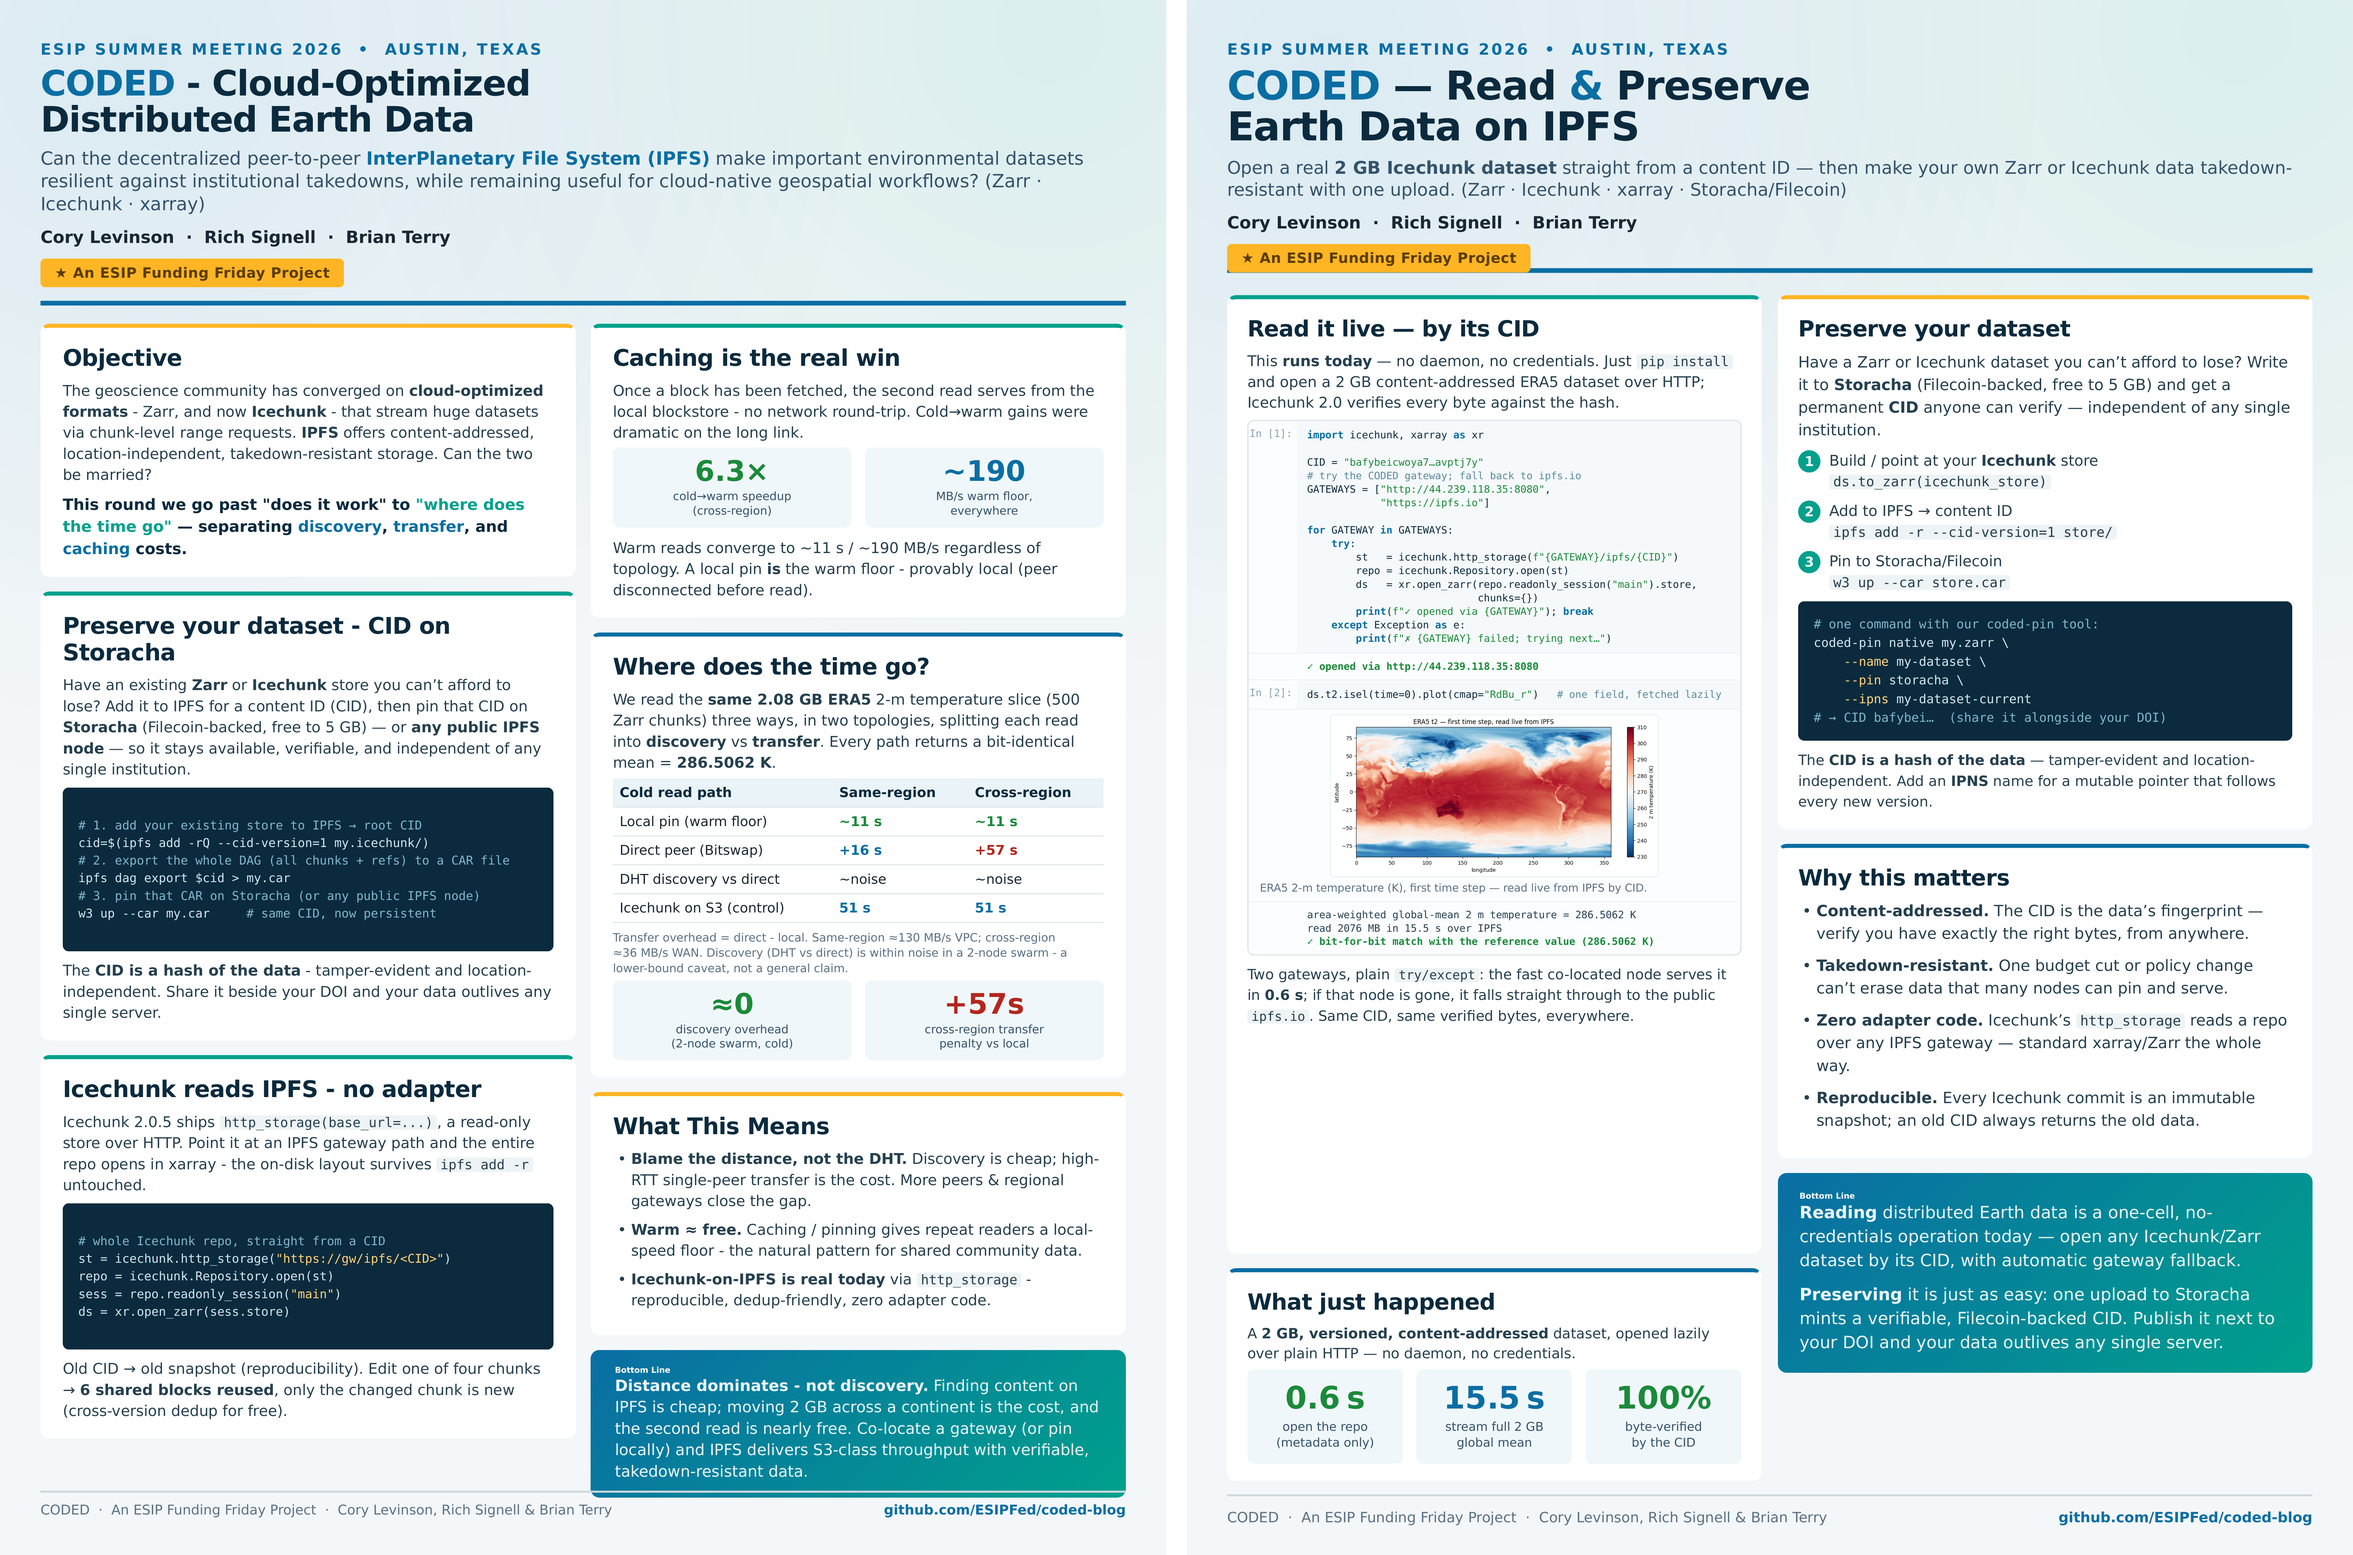
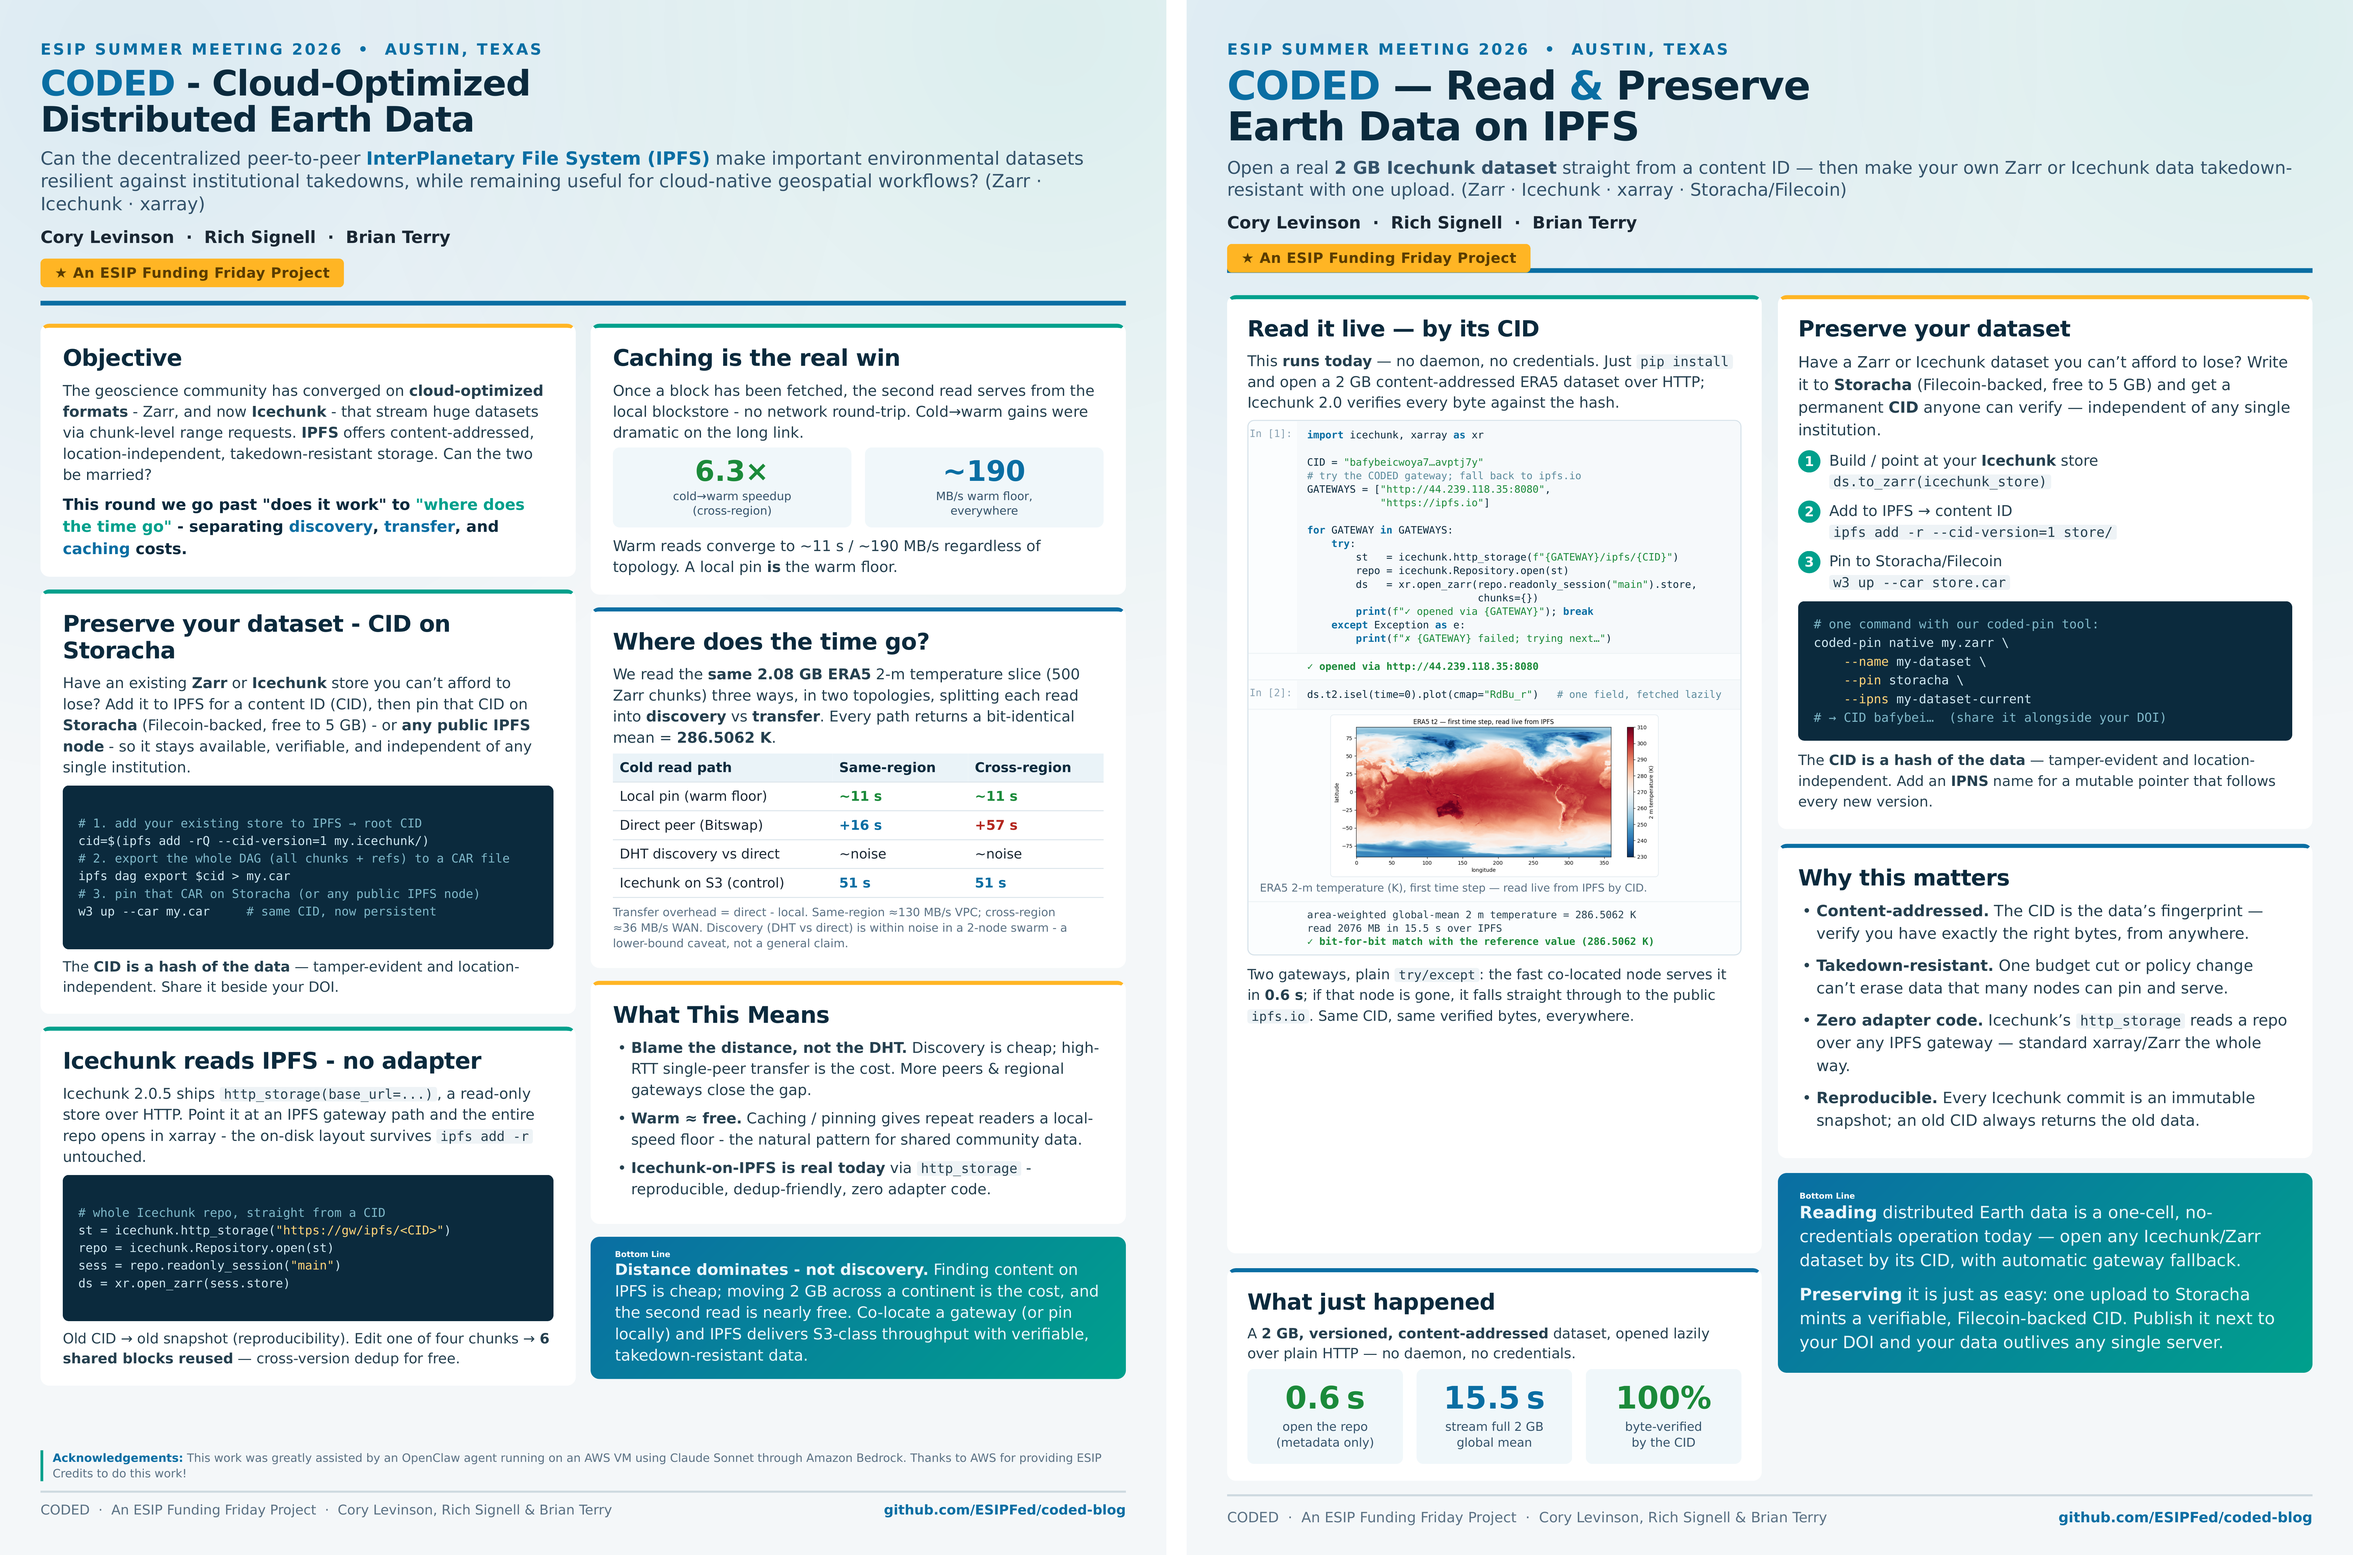
Poster v2: add Acknowledgements (OpenClaw agent, Claude Sonnet via Bedrock, AWS ESIP Credits)

diff --git a/ipfs-agent/posters/esip_ipfs_poster_v2.html b/ipfs-agent/posters/esip_ipfs_poster_v2.html
@@ -57,7 +57,7 @@
     grid-gap: 44px;
     margin-top: 10px;
   }
-  .col { display: flex; flex-direction: column; gap: 44px; }
+  .col { display: flex; flex-direction: column; gap: 38px; }
 
   .card {
     background: #ffffff; border-radius: 26px;
@@ -112,7 +112,7 @@
 
   .takeaway {
     background: linear-gradient(135deg, #0a6ea3, #00a08c);
-    color: #fff; border-radius: 26px; padding: 46px 72px; margin-bottom: 12px;
+    color: #fff; border-radius: 26px; padding: 38px 72px; margin-bottom: 8px;
     box-shadow: 0 14px 40px rgba(11,42,61,0.18); border-top: none;
   }
   .takeaway h2 { color: #fff; }
@@ -129,6 +129,11 @@
   .codebox .kw { color: #ffd479; }
 
   /* ---------- FOOTER ---------- */
+  .ack {
+    margin-top: 24px; font-size: 34px; line-height: 1.35; color: #5a7184;
+    font-style: italic; border-left: 8px solid #00a08c; padding-left: 28px;
+  }
+  .ack b { color: #0a6ea3; font-style: normal; }
   footer {
     margin-top: 28px; border-top: 6px solid #cdd9e0;
     padding-top: 28px; display: flex; justify-content: space-between;
@@ -156,12 +161,12 @@
       <div class="card amber">
         <h2>Objective</h2>
         <p class="lead">The geoscience community has converged on <b>cloud-optimized formats</b> - Zarr, and now <b>Icechunk</b> - that stream huge datasets via chunk-level range requests. <b>IPFS</b> offers content-addressed, location-independent, takedown-resistant storage. Can the two be married?</p>
-        <p style="font-weight:800; color:#0b2a3d; font-size:46px;">This round we go past "does it work" to <span style="color:#00a08c;">"where does the time go"</span> — separating <span style="color:#0a6ea3;">discovery</span>, <span style="color:#0a6ea3;">transfer</span>, and <span style="color:#0a6ea3;">caching</span> costs.</p>
+        <p style="font-weight:800; color:#0b2a3d; font-size:46px;">This round we go past "does it work" to <span style="color:#00a08c;">"where does the time go"</span> - separating <span style="color:#0a6ea3;">discovery</span>, <span style="color:#0a6ea3;">transfer</span>, and <span style="color:#0a6ea3;">caching</span> costs.</p>
       </div>
 
       <div class="card teal">
         <h2>Preserve <i>your</i> dataset - CID on Storacha</h2>
-        <p class="lead">Have an existing <b>Zarr</b> or <b>Icechunk</b> store you can&rsquo;t afford to lose? Add it to IPFS for a content ID (CID), then pin that CID on <b>Storacha</b> (Filecoin-backed, free to 5&nbsp;GB) — or <b>any public IPFS node</b> — so it stays available, verifiable, and independent of any single institution.</p>
+        <p class="lead">Have an existing <b>Zarr</b> or <b>Icechunk</b> store you can&rsquo;t afford to lose? Add it to IPFS for a content ID (CID), then pin that CID on <b>Storacha</b> (Filecoin-backed, free to 5&nbsp;GB) - or <b>any public IPFS node</b> - so it stays available, verifiable, and independent of any single institution.</p>
         <div class="codebox">
 <span class="cm"># 1. add your existing store to IPFS → root CID</span>
 cid=$(ipfs add -rQ --cid-version=1 my.icechunk/)
@@ -170,7 +175,7 @@ ipfs dag export $cid &gt; my.car
 <span class="cm"># 3. pin that CAR on Storacha (or any public IPFS node)</span>
 w3 up --car my.car     <span class="cm"># same CID, now persistent</span>
         </div>
-        <p style="margin-top:26px; font-size:44px;">The <b>CID is a hash of the data</b> - tamper-evident and location-independent. Share it beside your DOI and your data outlives any single server.</p>
+        <p style="margin-top:22px; font-size:42px;">The <b>CID is a hash of the data</b> — tamper-evident and location-independent. Share it beside your DOI.</p>
       </div>
 
       <div class="card teal">
@@ -183,7 +188,7 @@ repo = icechunk.Repository.open(st)
 sess = repo.readonly_session(<span class="kw">"main"</span>)
 ds = xr.open_zarr(sess.store)
         </div>
-        <p style="margin-top:26px; font-size:44px;">Old CID → old snapshot (reproducibility). Edit one of four chunks → <b>6 shared blocks reused</b>, only the changed chunk is new (cross-version dedup for free).</p>
+        <p style="margin-top:22px; font-size:42px;">Old CID → old snapshot (reproducibility). Edit one of four chunks → <b>6 shared blocks reused</b> — cross-version dedup for free.</p>
       </div>
 
     </div>
@@ -198,7 +203,7 @@ ds = xr.open_zarr(sess.store)
           <div class="stat green"><div class="n">6.3×</div><div class="l">cold→warm speedup<br>(cross-region)</div></div>
           <div class="stat"><div class="n">~190</div><div class="l">MB/s warm floor,<br>everywhere</div></div>
         </div>
-        <p style="margin-top:30px; font-size:44px;">Warm reads converge to ~11&nbsp;s / ~190&nbsp;MB/s regardless of topology. A local pin <b>is</b> the warm floor - provably local (peer disconnected before read).</p>
+        <p style="margin-top:24px; font-size:44px;">Warm reads converge to ~11&nbsp;s / ~190&nbsp;MB/s regardless of topology. A local pin <b>is</b> the warm floor.</p>
       </div>
 
       <div class="card">
@@ -216,10 +221,6 @@ ds = xr.open_zarr(sess.store)
           </tbody>
           <caption>Transfer overhead = direct - local. Same-region ≈130&nbsp;MB/s VPC; cross-region ≈36&nbsp;MB/s WAN. Discovery (DHT vs direct) is within noise in a 2-node swarm - a lower-bound caveat, not a general claim.</caption>
         </table>
-        <div class="bignum">
-          <div class="stat green"><div class="n">≈0</div><div class="l">discovery overhead<br>(2-node swarm, cold)</div></div>
-          <div class="stat red"><div class="n">+57s</div><div class="l">cross-region transfer<br>penalty vs local</div></div>
-        </div>
       </div>
 
       <div class="card amber">
@@ -238,6 +239,10 @@ ds = xr.open_zarr(sess.store)
 
     </div>
 
+  </div>
+
+  <div class="ack">
+    <b>Acknowledgements:</b> This work was greatly assisted by an OpenClaw agent running on an AWS VM using Claude Sonnet through Amazon Bedrock. Thanks to AWS for providing ESIP Credits to do this work!
   </div>
 
   <footer>
